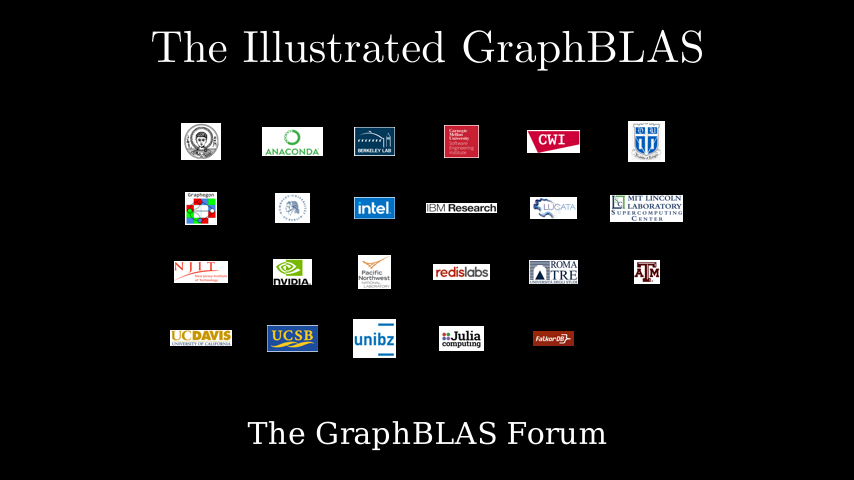
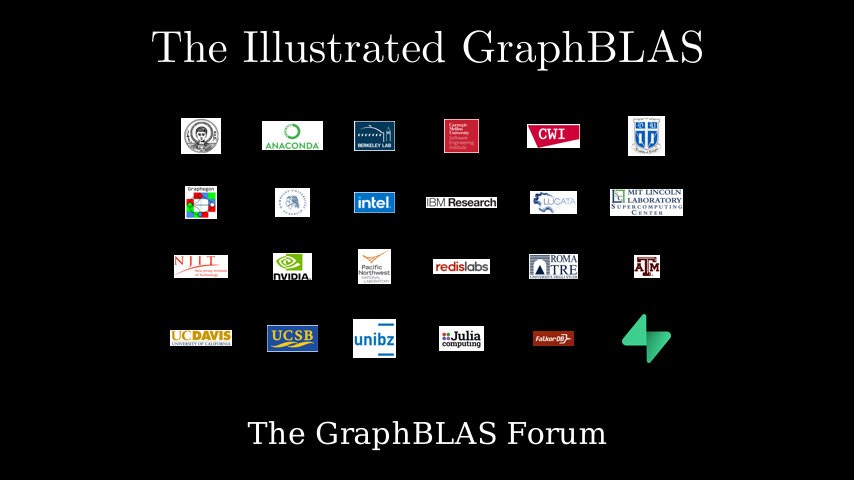
chapter0 finishing touches.
Time: 30 minutes

diff --git a/Chapter1/Thumb.py b/Chapter1/Thumb.py
@@ -1,0 +1,12 @@
+from manim import *
+import os
+
+class Thumb(Scene):
+    def construct(self):
+        title = Tex("The Illustrated GraphBLAS").scale(1.5).to_edge(UP)
+        self.play(Write(title))
+        footer = Text(
+            "The GraphBLAS Forum"
+        ).scale(0.75).to_edge(DOWN)
+        self.play(Write(footer))
+        self.wait(1)

diff --git a/Chapter0/Thumb.py b/Chapter0/Thumb.py
@@ -14,7 +14,7 @@ class Thumb(Scene):
             "njit.png", "nvidia.png", "pnnl.png",
             "redis.png", "romatre.png", "tamu.png",
             "ucdavis.png", "ucsb.png", "unibz.png",
-            "JuliaComputing.jpg", "falkor.png",
+            "JuliaComputing.jpg", "falkor.png", "supabase2.png"
         ]
 
         logos = [
